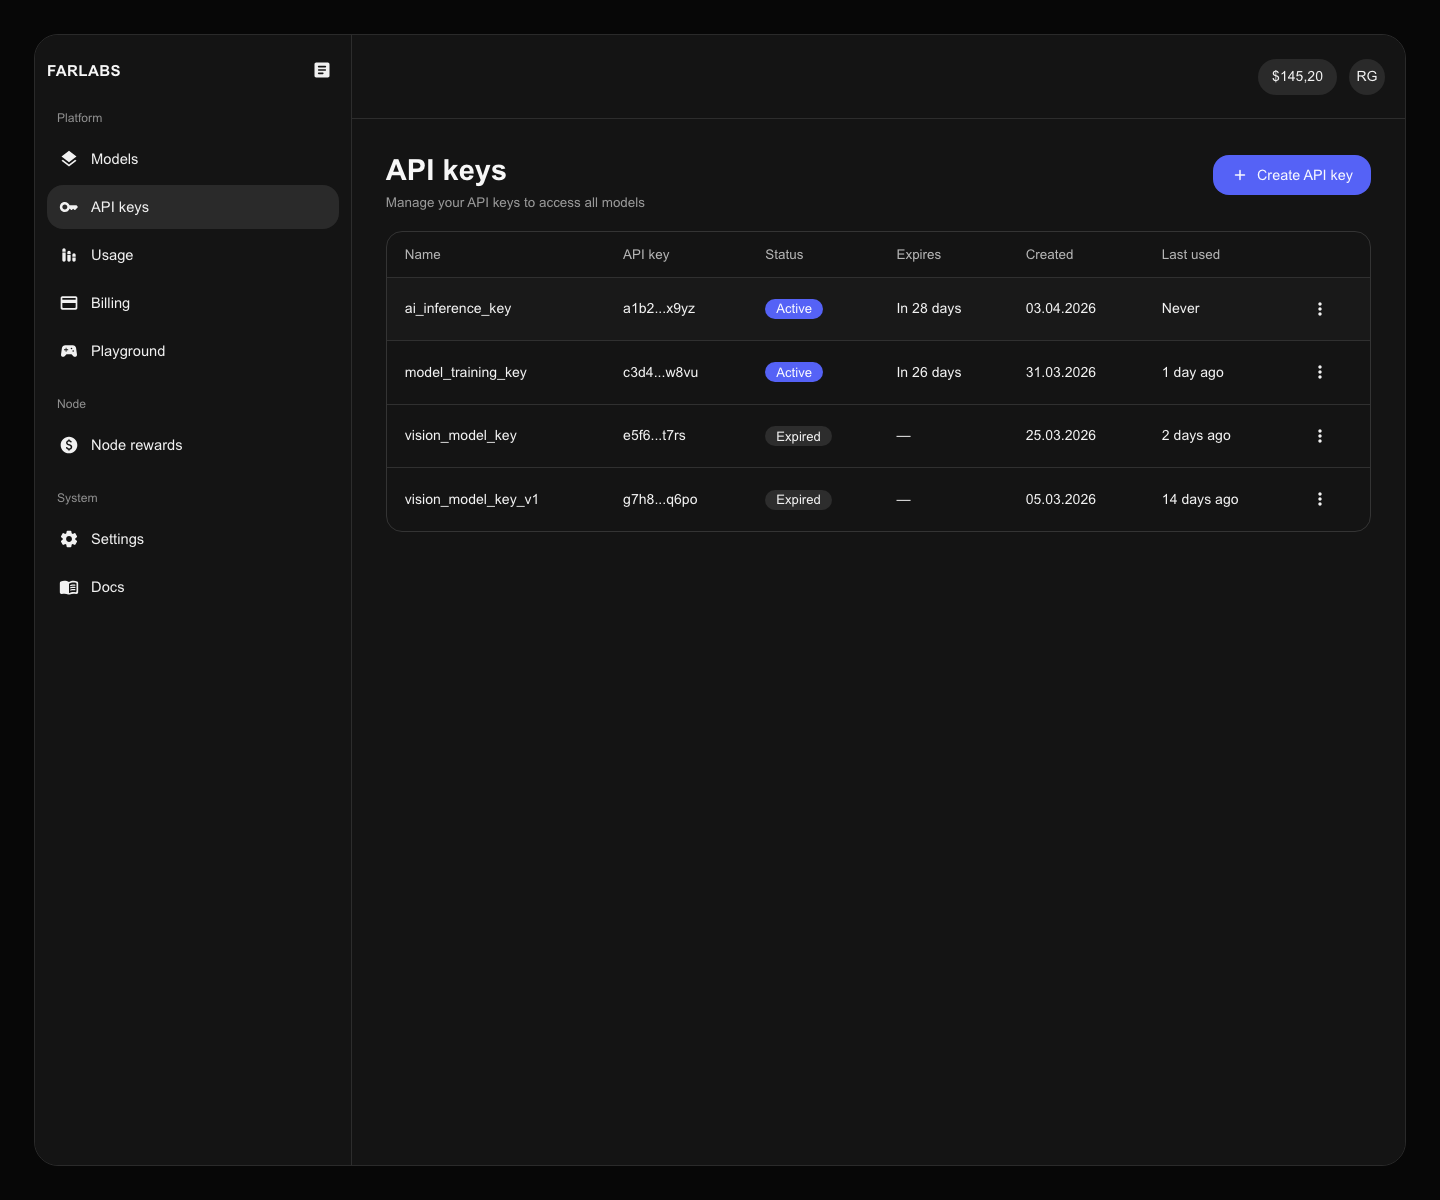
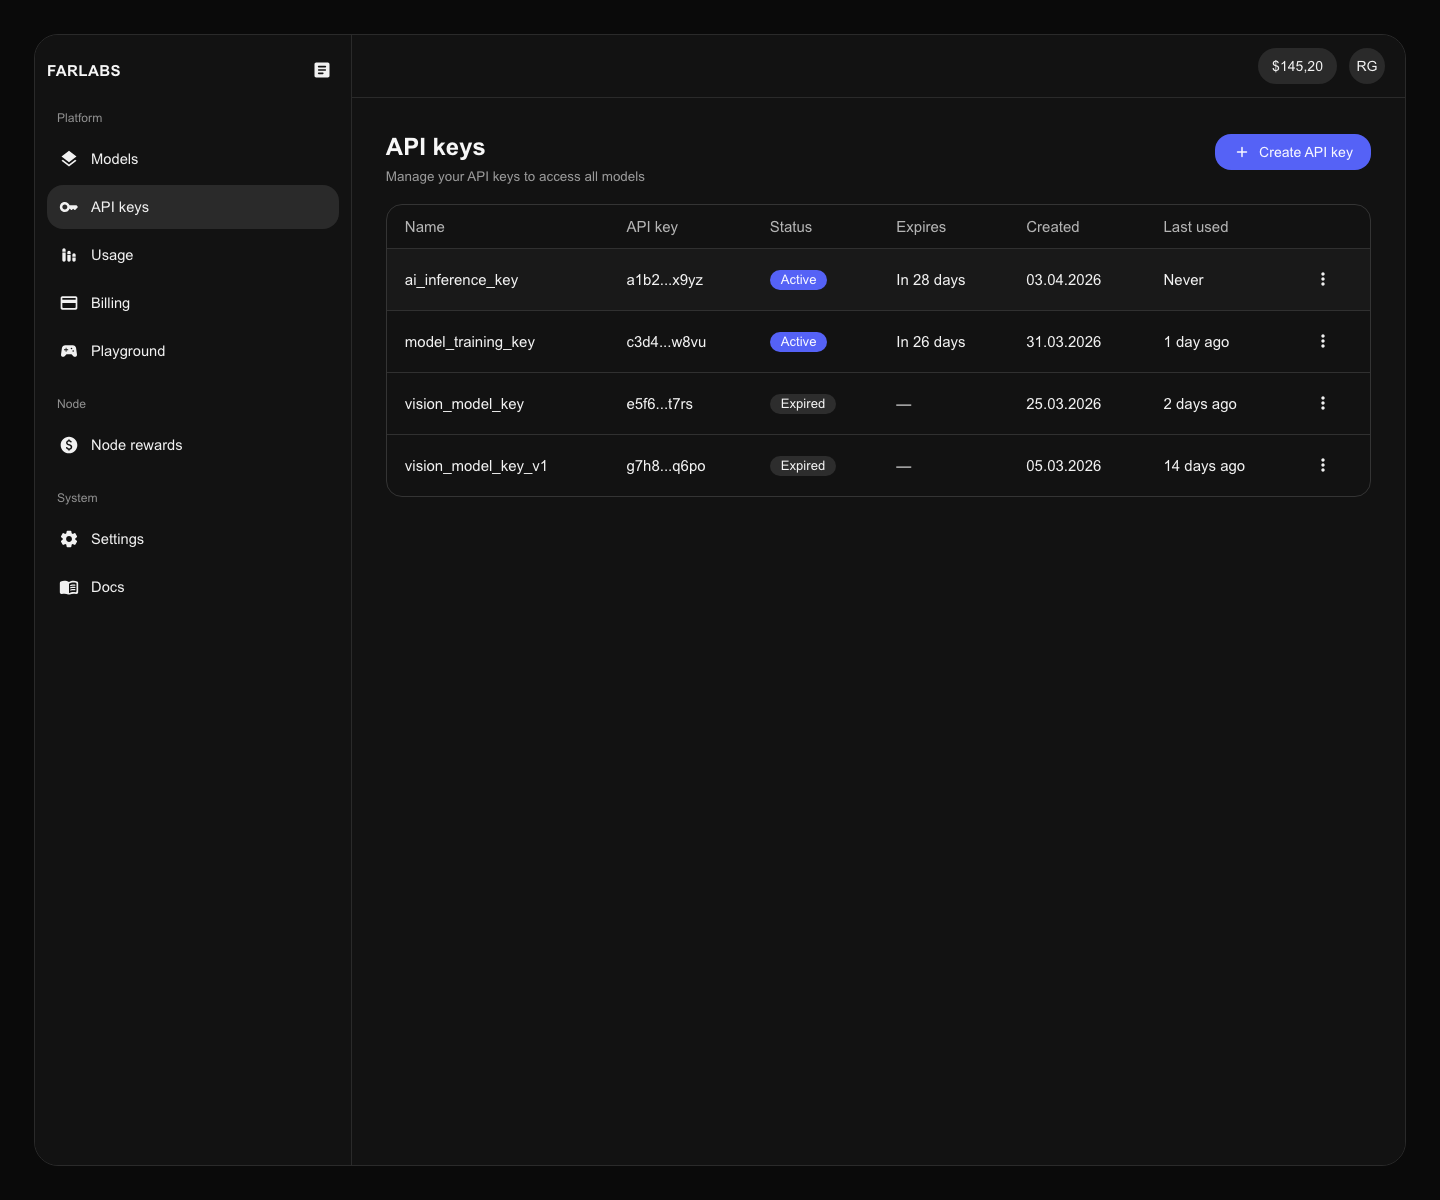
Fix desktop pixel layout

diff --git a/src/features/api-keys/components/ApiKeysFeature.css b/src/features/api-keys/components/ApiKeysFeature.css
@@ -23,22 +23,23 @@
 }
 
 .api-table thead th {
-  padding: 15px 18px;
+  padding: 14px 18px;
   border-bottom: 1px solid #303030;
   color: #b5b5b5;
   text-align: left;
   white-space: nowrap;
-  font-size: 0.84rem;
+  font-size: 15px;
   font-weight: 500;
+  line-height: 1;
 }
 
 .api-table tbody td {
-  padding: 17px 18px;
+  padding: 16px 18px;
   border-bottom: 1px solid #303030;
   color: #f2f2f2;
   white-space: nowrap;
-  font-size: 0.88rem;
-  line-height: 1.25;
+  font-size: 15px;
+  line-height: 20px;
 }
 
 .api-table tbody tr:last-child td {

diff --git a/src/shared/layout/AppShell.css b/src/shared/layout/AppShell.css
@@ -7,7 +7,7 @@
   border: 1px solid #2a2a2a;
   border-radius: 24px;
   overflow: hidden;
-  background: #141414;
+  background: #121212;
   transition: grid-template-columns 180ms ease;
 }
 
@@ -19,11 +19,11 @@
 .app-sidebar,
 .app-shell__viewport,
 .mobile-nav {
-  background: #141414;
+  background: #121212;
 }
 
 .app-sidebar {
-  border-right: 1px solid #2d2d2d;
+  border-right: 1px solid #2a2a2a;
   padding: 18px var(--sidebar-padding-inline) 24px;
   transition: padding 180ms ease;
 }
@@ -146,9 +146,9 @@
 }
 
 .desktop-topbar {
-  min-height: 84px;
+  min-height: 63px;
   padding: 0 20px;
-  border-bottom: 1px solid #2d2d2d;
+  border-bottom: 1px solid #2a2a2a;
 }
 
 .desktop-topbar__actions {

diff --git a/src/index.css b/src/index.css
@@ -1,6 +1,6 @@
 :root {
   color: #f2f2f2;
-  background: #070707;
+  background: #0a0a0a;
   font-family: Inter, 'Segoe UI', Arial, sans-serif;
   font-size: 16px;
   font-synthesis: none;
@@ -16,14 +16,14 @@
 }
 
 html {
-  background: #070707;
+  background: #0a0a0a;
 }
 
 body {
   margin: 0;
   min-width: 320px;
   min-height: 100svh;
-  background: #070707;
+  background: #0a0a0a;
 }
 
 body,

diff --git a/src/pages/ApiKeysPage.css b/src/pages/ApiKeysPage.css
@@ -18,7 +18,7 @@
 .page-header__title {
   margin: 0;
   color: #f7f7f7;
-  font-size: 1.82rem;
+  font-size: 1.5rem;
   font-weight: 700;
   line-height: 1.08;
 }
@@ -36,12 +36,12 @@
   justify-content: center;
   flex-shrink: 0;
   gap: 8px;
-  height: 40px;
+  height: 36px;
   padding: 0 18px;
   border-radius: 16px;
   background: #5562f6;
   color: #f8f8ff;
-  font-size: 0.9rem;
+  font-size: 0.88rem;
   font-weight: 500;
 }
 